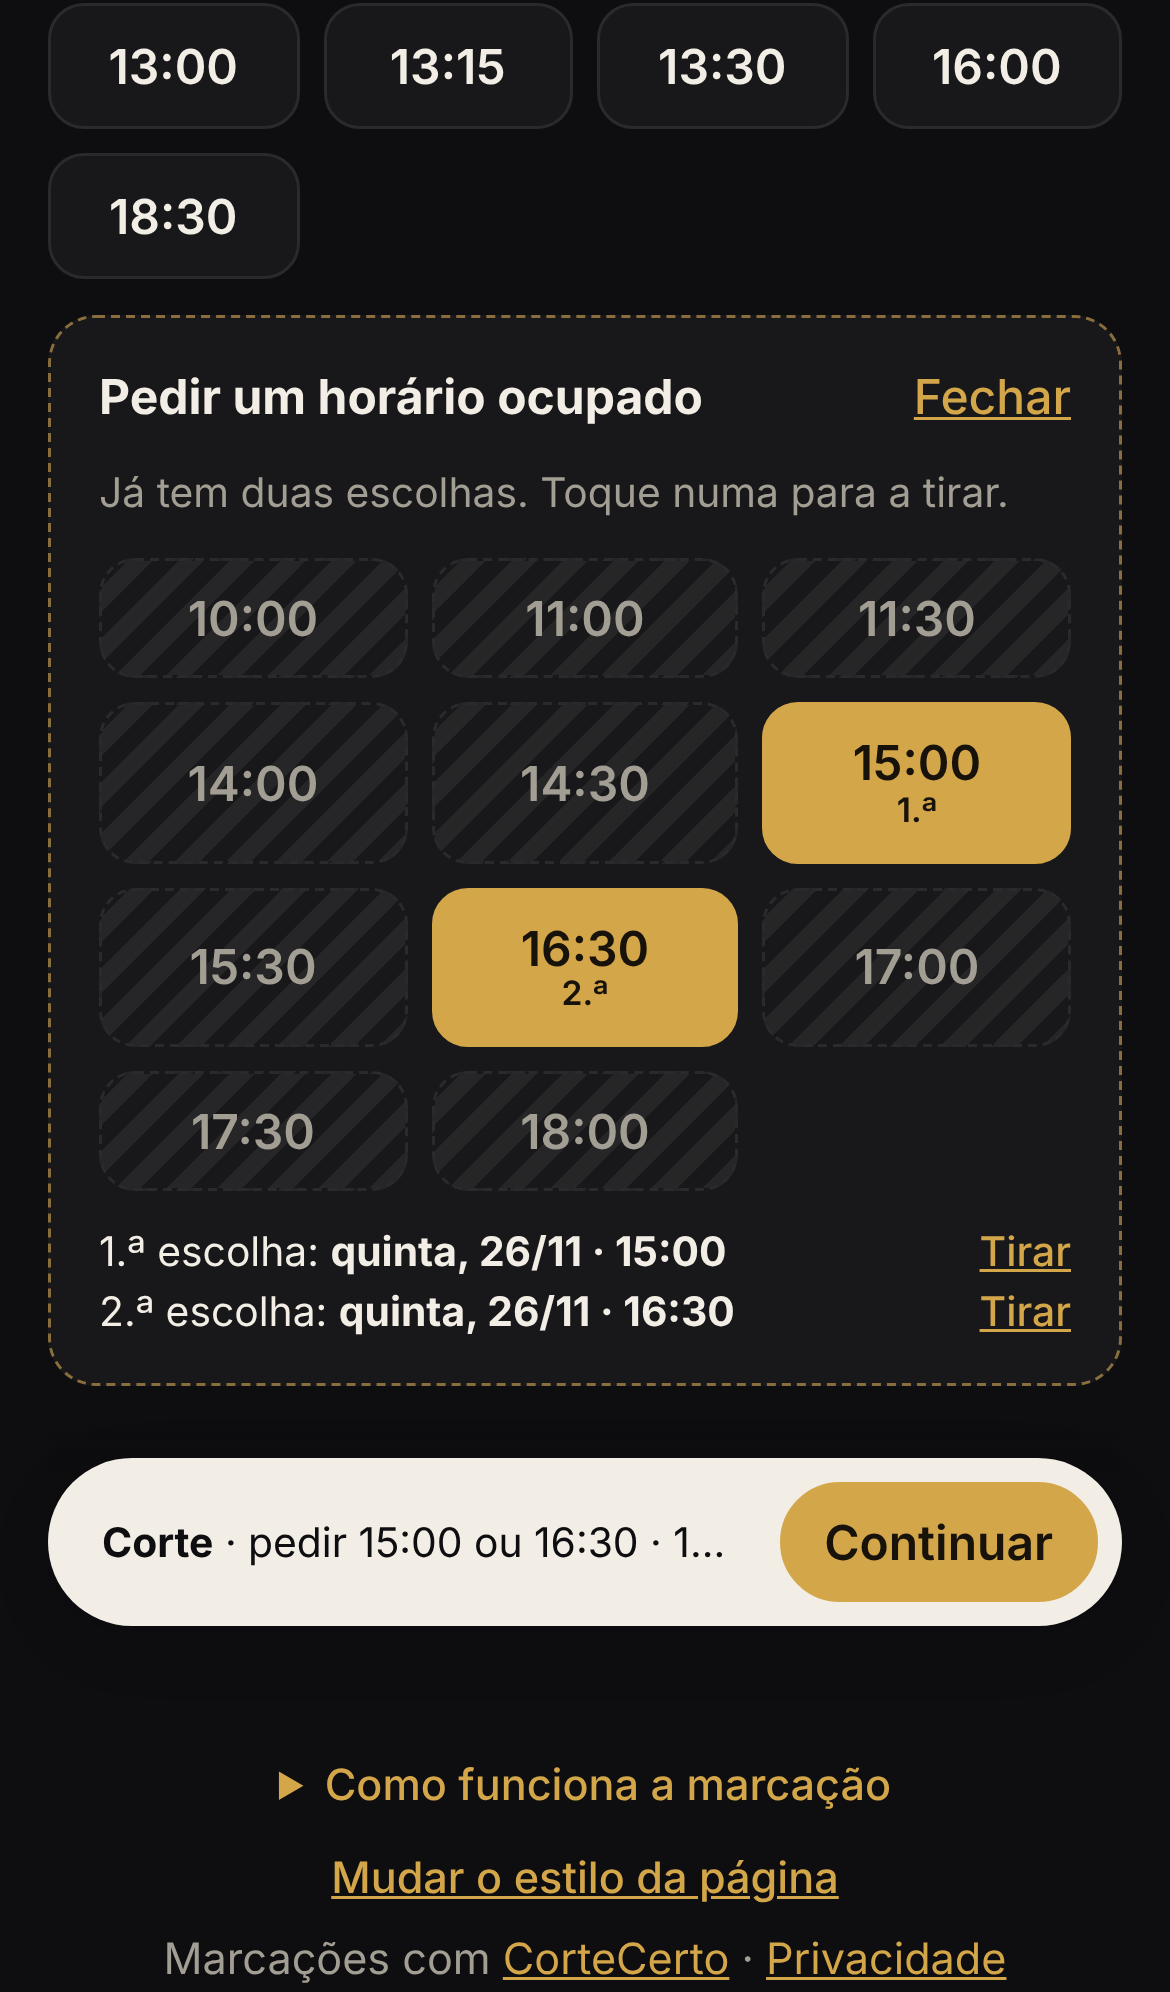
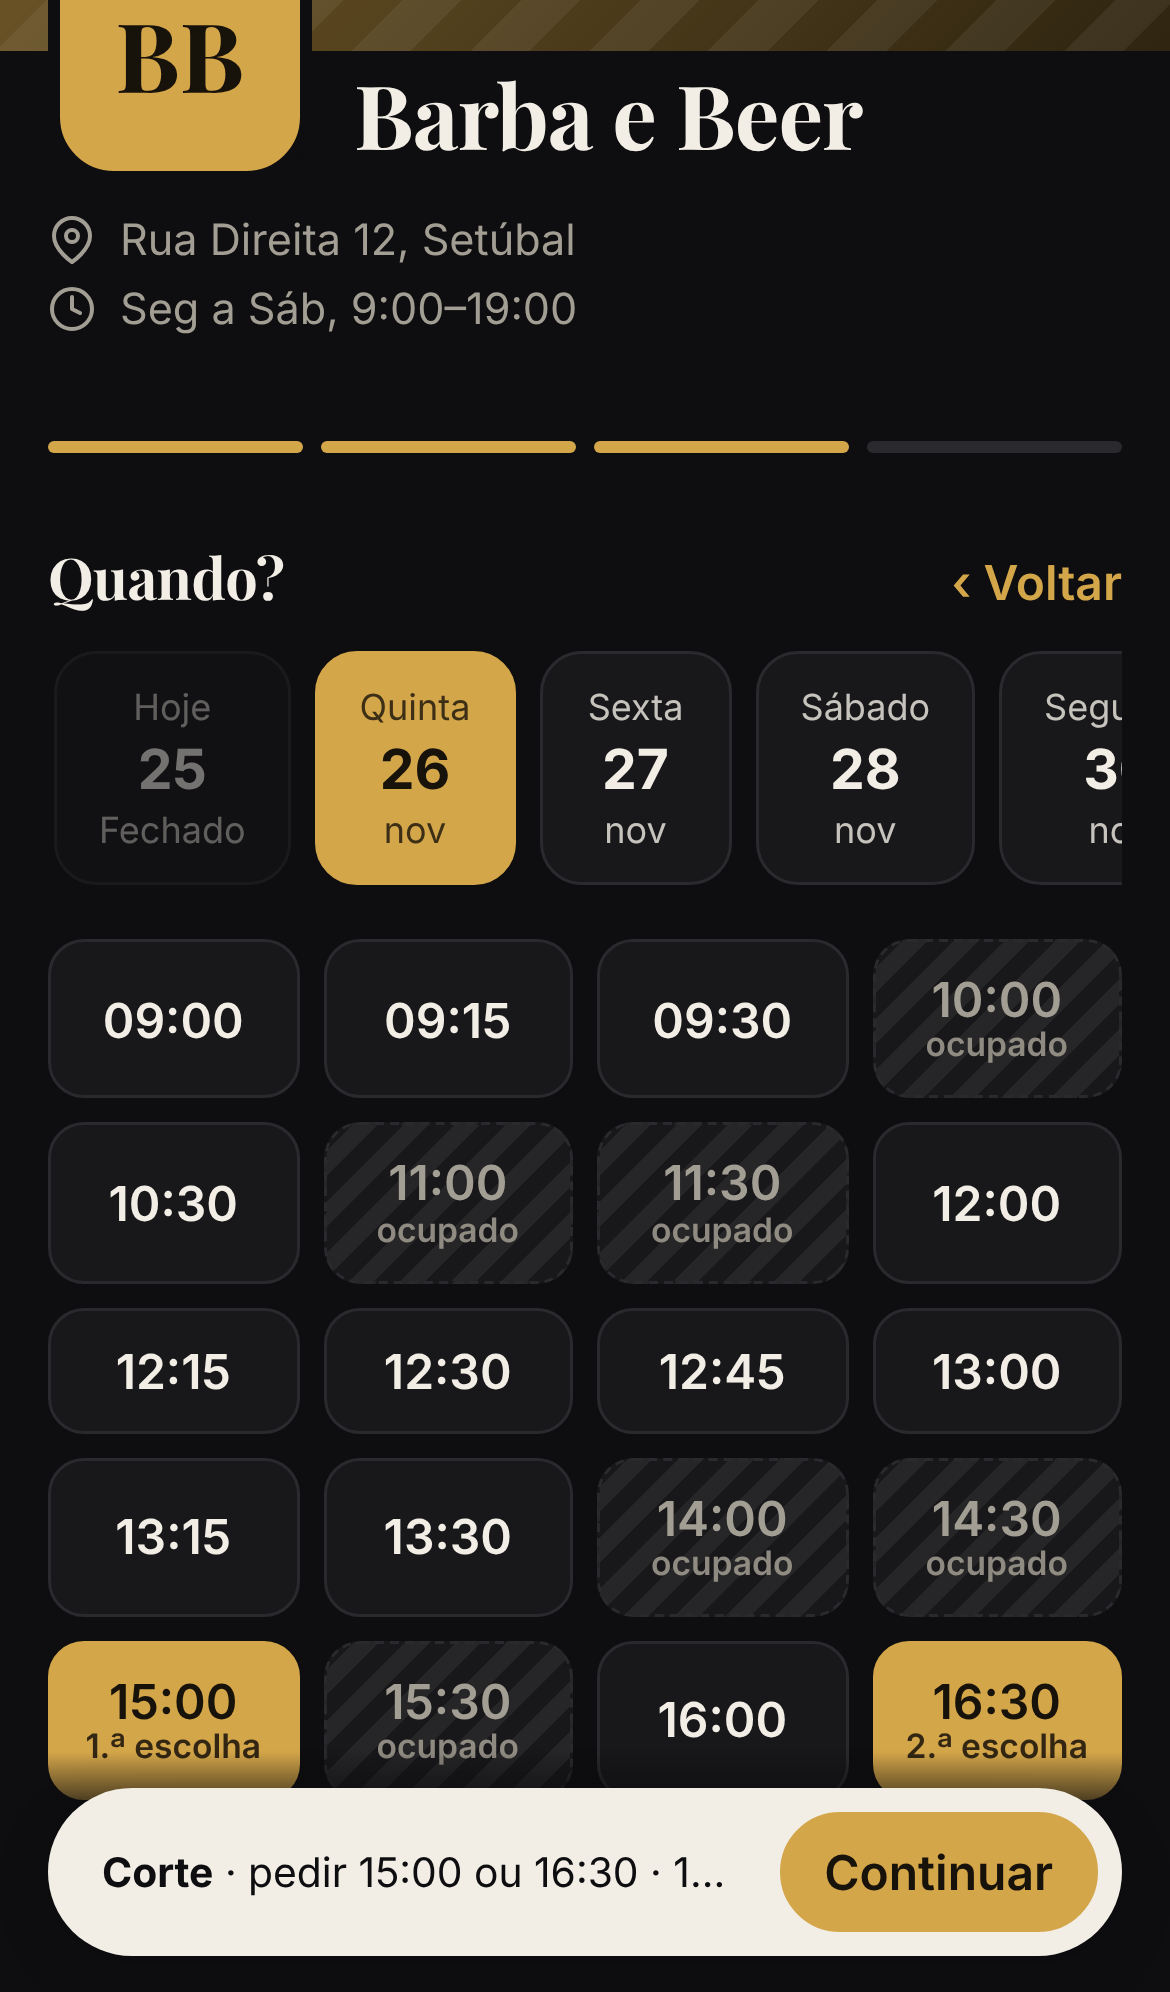
Página de marcação: horários livres e ocupados na mesma lista (#67)
* Pedir um horário ocupado (lista de espera) e tempo por cliente (migration 0031)

Clients ask for a taken time (with a 2nd choice) and wait on the salon's
waiting list; the salon answers from Hoje (give the time after moving the
other client, propose another held time, or decline), all by one-tap
WhatsApp. Per-client service lengths in the client card; online bookings
use them; any booking's length can be changed in Editar.

Claude-Session: https://claude.ai/code/session_01Q6BZR6UqkB47Xeiu52gMB1

* Booking page: show taken times next to free ones, tap a taken time to request it

Free and taken times now share one grid on the client booking page. Taken
times are striped and marked 'ocupado'; tapping one (up to two) starts a
request that goes to the salon's waiting list. Days with no times left say
'Fechado' (today) or 'Sem horas' instead of 'Cheio'. Help text updated.

Claude-Session: https://claude.ai/code/session_01Q6BZR6UqkB47Xeiu52gMB1

---------

diff --git a/app/src/pages/BookingPage.tsx b/app/src/pages/BookingPage.tsx
@@ -254,14 +254,17 @@ export default function BookingPage() {
   }, [service, candidates, overrides, tz, hours, busy, tick, travel, myMinutes]) // eslint-disable-line react-hooks/exhaustive-deps
   // Taken times on the chosen day, for "Pedir este horário" (not for home visits, combos or promotions' special flows).
   const canAsk = Boolean(service) && !atHome && !combo
-  const taken = useMemo(() => {
-    if (!asking || !service || !date) return []
-    return takenTimes({ date, tz, now: new Date(), pros: candidates.flatMap(p => {
+  const takenOn = useMemo(() => (day: string) => {
+    if (!canAsk || !service) return []
+    return takenTimes({ date: day, tz, now: new Date(), pros: candidates.flatMap(p => {
       const eff = effective(service, p.id, overrides)
       return eff ? [{ hours: hoursFor(hours, p.id), durationMin: eff.duration_min, busy: busy.filter(b => b.professional_id === p.id) }] : []
     }) })
-  }, [asking, service, date, tz, candidates, overrides, hours, busy])
+  }, [canAsk, service, tz, candidates, overrides, hours, busy])
+  const taken = useMemo(() => date ? takenOn(date) : [], [date, takenOn])
   const fullDays = useMemo(() => new Set(service ? openDays.filter(d => slotsOn(d).length === 0) : []), [service, openDays, slotsOn])
+  // Days with no time left at all (e.g. today after closing): neither free nor taken times to show.
+  const overDays = useMemo(() => new Set([...fullDays].filter(d => takenOn(d).length === 0)), [fullDays, takenOn])
   const slots = useMemo(() => date ? slotsOn(date) : [], [date, slotsOn])
 
   // Start on the first day with a free time; move off a day that just filled up.
@@ -414,7 +417,7 @@ export default function BookingPage() {
         <summary>Como funciona a marcação</summary>
         <ol>
           <li>Escolha o serviço, com quem e o dia e a hora que lhe dão jeito. Só aparecem horários livres.</li>
-          <li>A hora que quer está ocupada? Toque em "Pedir um horário ocupado". Fica na lista de espera e o salão responde-lhe por WhatsApp.</li>
+          <li>Os horários ocupados aparecem riscados. Se quer mesmo um deles, toque nele para o pedir ao salão: fica na lista de espera e o salão responde-lhe por WhatsApp.</li>
           <li>Escreva o nome e o telemóvel. Não precisa de criar conta nem de palavra-passe.</li>
           {salon.deposit_cents > 0 && salon.mbway_number
             ? <li>Envie o sinal de {euros(salon.deposit_cents)} por MB Way para o número que aparece no fim. A marcação fica confirmada quando o salão o receber.</li>
@@ -680,42 +683,45 @@ export default function BookingPage() {
                 <button key={d} className={`chip${d === date ? ' on' : ''}${fullDays.has(d) ? ' full' : ''}`} onClick={() => { setDate(d); setSlot(undefined) }} aria-label={fullDays.has(d) ? `${d}: sem horários livres` : undefined}>
                   <span className="d1">{d === today ? 'Hoje' : cap(dt.toLocaleDateString('pt-PT', { weekday: 'short', timeZone: 'UTC' }).replace('.', ''))}</span>
                   <span className="d2">{dt.getUTCDate()}</span>
-                  <span className="d1">{fullDays.has(d) ? 'Cheio' : dt.toLocaleDateString('pt-PT', { month: 'short', timeZone: 'UTC' }).replace('.', '')}</span>
+                  <span className="d1">{overDays.has(d) ? (d === today ? 'Fechado' : 'Sem horas') : fullDays.has(d) ? 'Cheio' : dt.toLocaleDateString('pt-PT', { month: 'short', timeZone: 'UTC' }).replace('.', '')}</span>
                 </button>
               )
             })}
           </div>
-          <div className="slots">
-            {slots.length === 0 && date && <p className="muted" style={{ gridColumn: '1 / -1' }}>Sem horários livres neste dia.{openDays.some(d => !fullDays.has(d)) ? ' Experimente outro dia.' : ' Fale com o salão por WhatsApp.'}</p>}
-            {slots.map(t => (
-              <button key={t.start.getTime()} className={t.start.getTime() === slot?.start.getTime() ? 'slot on' : 'slot'} onClick={() => { setSlot(t); setError(''); setAsking(false); setWish([]) }}>{formatTime(t.start, tz)}</button>
-            ))}
-          </div>
-          {error && <p className="error" role="alert">{error}</p>}
-          {canAsk && !asking && date && (
-            <div className="card soft ask-slot">
-              <span><b>O horário que quer está ocupado?</b><small className="muted">Peça-o ao salão. Fica na lista de espera e o salão responde-lhe por WhatsApp.</small></span>
-              <button className="btn ghost inline sm" onClick={() => { setAsking(true); setSlot(undefined); setError('') }}><Icon name="clock" size={16} />Pedir um horário ocupado</button>
-            </div>
-          )}
-          {canAsk && asking && (
-            <section className="card ask-slot open" aria-label="Pedir um horário ocupado">
-              <div className="between"><b>Pedir um horário ocupado</b><button className="link" onClick={() => { setAsking(false); setWish([]) }}>Fechar</button></div>
-              <p className="muted small" style={{ margin: '4px 0 0' }}>{wish.length === 0 ? 'Toque no horário que quer.' : wish.length === 1 ? 'Se quiser, escolha uma 2.ª opção (pode ser noutro dia).' : 'Já tem duas escolhas. Toque numa para a tirar.'}</p>
+          {/* Free and taken times together, in order. A taken one can be asked for: the client goes on the salon's waiting list. */}
+          {(() => {
+            const pick = (t: Date) => {
+              const i = wish.findIndex(w => w.getTime() === t.getTime())
+              setSlot(undefined); setError(''); setAsking(true)
+              setWish(ws => i >= 0 ? ws.filter((_, k) => k !== i) : ws.length < 2 ? [...ws, t] : [ws[0], t])
+            }
+            const all = [
+              ...slots.map(t => ({ at: t.start.getTime(), free: t as { start: Date; proId: string } | null })),
+              ...taken.filter(t => !slots.some(f => f.start.getTime() === t.getTime())).map(t => ({ at: t.getTime(), free: null })),
+            ].sort((a, b) => a.at - b.at)
+            return <>
               <div className="slots">
-                {taken.length === 0 && <p className="muted small" style={{ gridColumn: '1 / -1', margin: 0 }}>Neste dia não há horários ocupados. Escolha uma hora livre acima, ou outro dia.</p>}
-                {taken.map(t => {
-                  const i = wish.findIndex(w => w.getTime() === t.getTime())
-                  return <button key={t.getTime()} className={i >= 0 ? 'slot taken on' : 'slot taken'} aria-pressed={i >= 0} onClick={() => {
-                    setWish(ws => i >= 0 ? ws.filter((_, k) => k !== i) : ws.length < 2 ? [...ws, t] : [ws[0], t])
-                  }}>{formatTime(t, tz)}{i >= 0 && <small>{i + 1}.ª</small>}</button>
+                {all.length === 0 && date && <p className="muted" style={{ gridColumn: '1 / -1' }}>{date === today && overDays.has(date) ? 'Hoje já não há horários.' : 'Sem horários neste dia.'} {openDays.some(d => !fullDays.has(d)) ? 'Experimente outro dia.' : 'Fale com o salão por WhatsApp.'}</p>}
+                {all.map(x => {
+                  if (x.free) return <button key={x.at} className={x.at === slot?.start.getTime() ? 'slot on' : 'slot'} onClick={() => { setSlot(x.free!); setError(''); setAsking(false); setWish([]) }}>{formatTime(x.free.start, tz)}</button>
+                  const i = wish.findIndex(w => w.getTime() === x.at)
+                  return <button key={x.at} className={i >= 0 ? 'slot taken on' : 'slot taken'} aria-pressed={i >= 0} aria-label={`${formatTime(new Date(x.at), tz)}, ocupado: pedir`} onClick={() => pick(new Date(x.at))}>
+                    {formatTime(new Date(x.at), tz)}<small>{i >= 0 ? `${i + 1}.ª escolha` : 'ocupado'}</small></button>
                 })}
               </div>
-              {wish.length > 0 && (
-                <ol className="wish-list small">
-                  {wish.map((w, i) => <li key={w.getTime()}><span>{i + 1}.ª escolha: <b>{shortWhen(w, tz)}</b></span><button className="link" onClick={() => setWish(ws => ws.filter((_, k) => k !== i))}>Tirar</button></li>)}
-                </ol>
+              {taken.length > 0 && wish.length === 0 && (
+                <p className="slots-legend small muted"><span className="slot taken mini" aria-hidden="true" /><span>Ocupado. Quer mesmo essa hora? Toque nela para a <b>pedir ao salão</b>: fica na lista de espera e o salão responde-lhe por WhatsApp.</span></p>
               )}
+            </>
+          })()}
+          {error && <p className="error" role="alert">{error}</p>}
+          {canAsk && asking && wish.length > 0 && (
+            <section className="card ask-slot open" aria-label="Pedido de horário">
+              <div className="between"><b>Pedir ao salão</b><button className="link" onClick={() => { setAsking(false); setWish([]) }}>Cancelar pedido</button></div>
+              <ol className="wish-list small">
+                {wish.map((w, i) => <li key={w.getTime()}><span>{i + 1}.ª escolha: <b>{shortWhen(w, tz)}</b></span><button className="link" onClick={() => setWish(ws => ws.filter((_, k) => k !== i))}>Tirar</button></li>)}
+              </ol>
+              <p className="muted small" style={{ margin: 0 }}>{wish.length === 1 ? 'Se quiser, toque noutro horário ocupado para uma 2.ª opção (pode ser noutro dia). Depois toque em Continuar.' : 'Toque em Continuar. Fica na lista de espera até o salão lhe responder.'}</p>
             </section>
           )}
         </>}
@@ -733,7 +739,7 @@ export default function BookingPage() {
                   : wish.map((w, i) => <Fragment key={w.getTime()}><dt>{wish.length > 1 ? `${i + 1}.ª escolha` : 'Pede'}</dt><dd>{cap(longDate(w))}, {formatTime(w, tz)}</dd></Fragment>)}
                 {atHome && zone && <><dt>Onde</dt><dd>Em sua casa · {zone.name}</dd></>}
               </dl>
-              {!slot && <p className="ask-note small"><Icon name="clock" size={14} /> É um <b>pedido</b>, ainda não uma marcação. Fica na lista de espera do salão até o salão lhe responder por WhatsApp.</p>}
+              {!slot && <p className="ask-note small"><Icon name="clock" size={14} /><span>É um <b>pedido</b>, ainda não uma marcação. Fica na lista de espera do salão até o salão lhe responder por WhatsApp.</span></p>}
               {atHome && zone && eff && slot && (() => {
                 const q = homeQuote({ servicesCents: eff.price_cents, zone, fees: home!.fees, start: slot.start, tz })
                 return <dl className="kv quote">{q.lines.map(l => <Fragment key={l.label}><dt>{l.label}</dt><dd>{euros(l.cents)}</dd></Fragment>)}<dt><b>Total</b></dt><dd><b>{euros(q.total)}</b></dd></dl>

diff --git a/app/src/lib/help.ts b/app/src/lib/help.ts
@@ -133,7 +133,7 @@ export const HELP: HelpTopic[] = [
   {
     id: 'pedidos-horario', group: 'A agenda', title: 'Responder a um pedido de horário ocupado', screen: '/painel', need: 'agenda', words: 'pedido horário ocupado lista de espera trocar mudar cliente encaixar',
     steps: [
-      'Na página de marcação, o cliente pode tocar em "Pedir um horário ocupado" e escolher a hora que quer (e uma 2.ª opção). Recebe um aviso no telemóvel e o pedido aparece no Hoje, em "Pedidos de horário".',
+      'Na página de marcação, os horários ocupados aparecem riscados, ao lado dos livres. O cliente toca no que quer (e numa 2.ª opção) e envia o pedido. Recebe um aviso no telemóvel e o pedido aparece no Hoje, em "Pedidos de horário".',
       'Até lhe responder, o cliente fica na lista de espera. Em cada hora pedida vê quem lá está. Toque em "Pedir a … para mudar" para lhe perguntar por WhatsApp, ou em "Mudar … de hora" para lhe enviar um novo horário com link.',
       'Quando a hora ficar livre, toque em "Dar 15:00 a …" e depois em "Enviar por WhatsApp" para o avisar. Fica marcado e confirmado.',
       'Não dá? Toque em "Propor outro horário": o horário fica guardado para o cliente, que aceita com um toque no link. Se disser que não, volta à lista de espera.',

diff --git a/app/src/index.css b/app/src/index.css
@@ -570,3 +570,6 @@ body.no-scroll { overflow: hidden; }
 .times-list li { display: flex; justify-content: space-between; gap: 8px; }
 .times-form { display: grid; gap: 8px; margin-top: 8px; }
 .times-form label { margin: 0; }
+.slot.taken small { opacity: .85; }
+.slots-legend { display: flex; gap: 8px; align-items: flex-start; margin: 10px 0 0; }
+.slot.taken.mini { flex: none; width: 28px; min-height: 18px; height: 18px; padding: 0; border: 1px dashed var(--line); border-radius: 6px; margin-top: 2px; }
